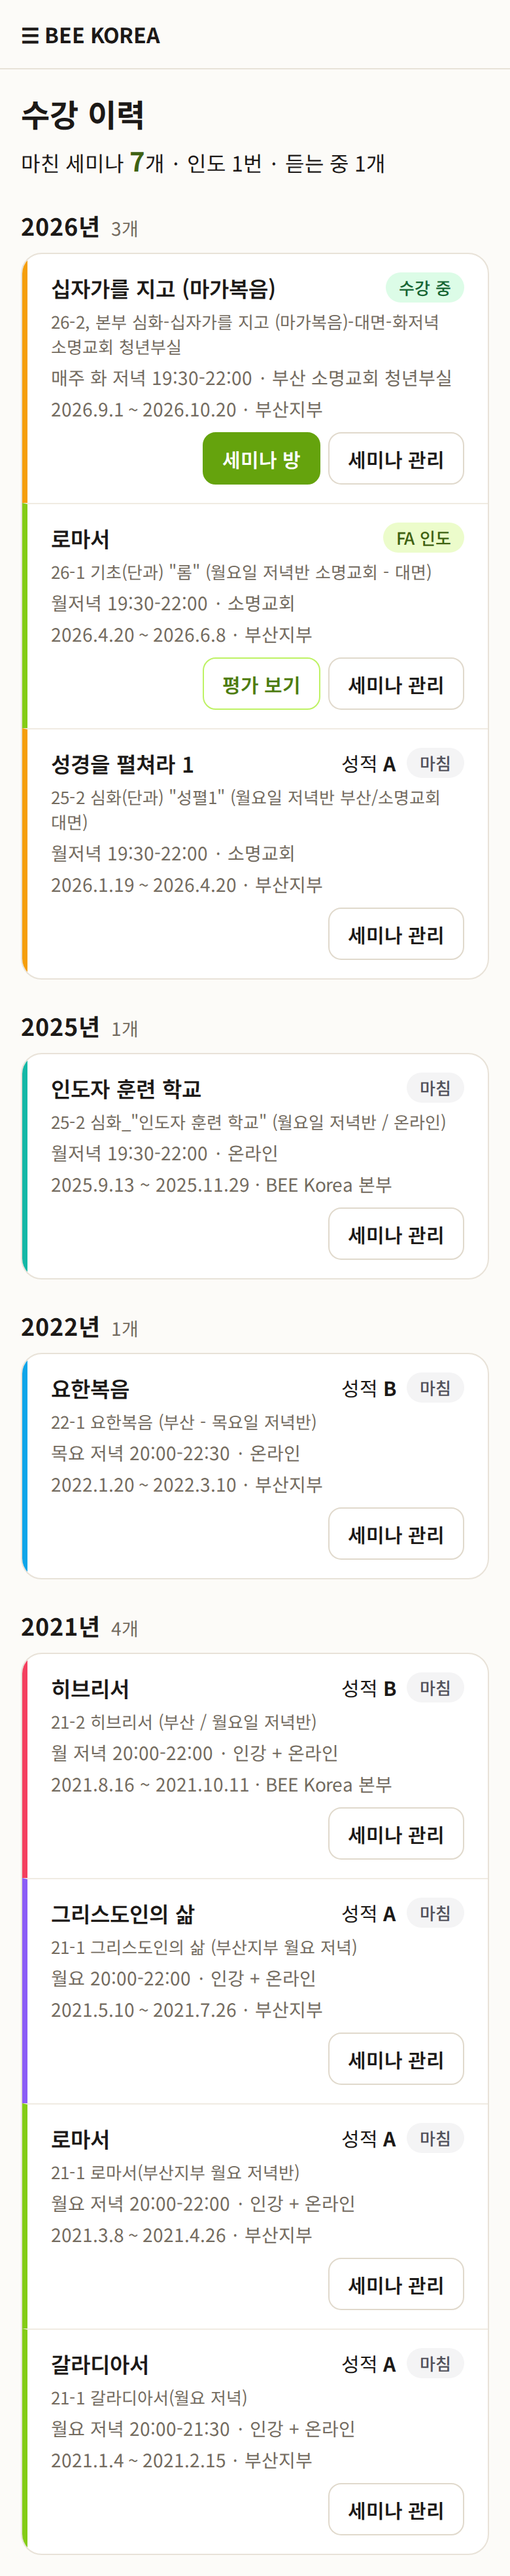
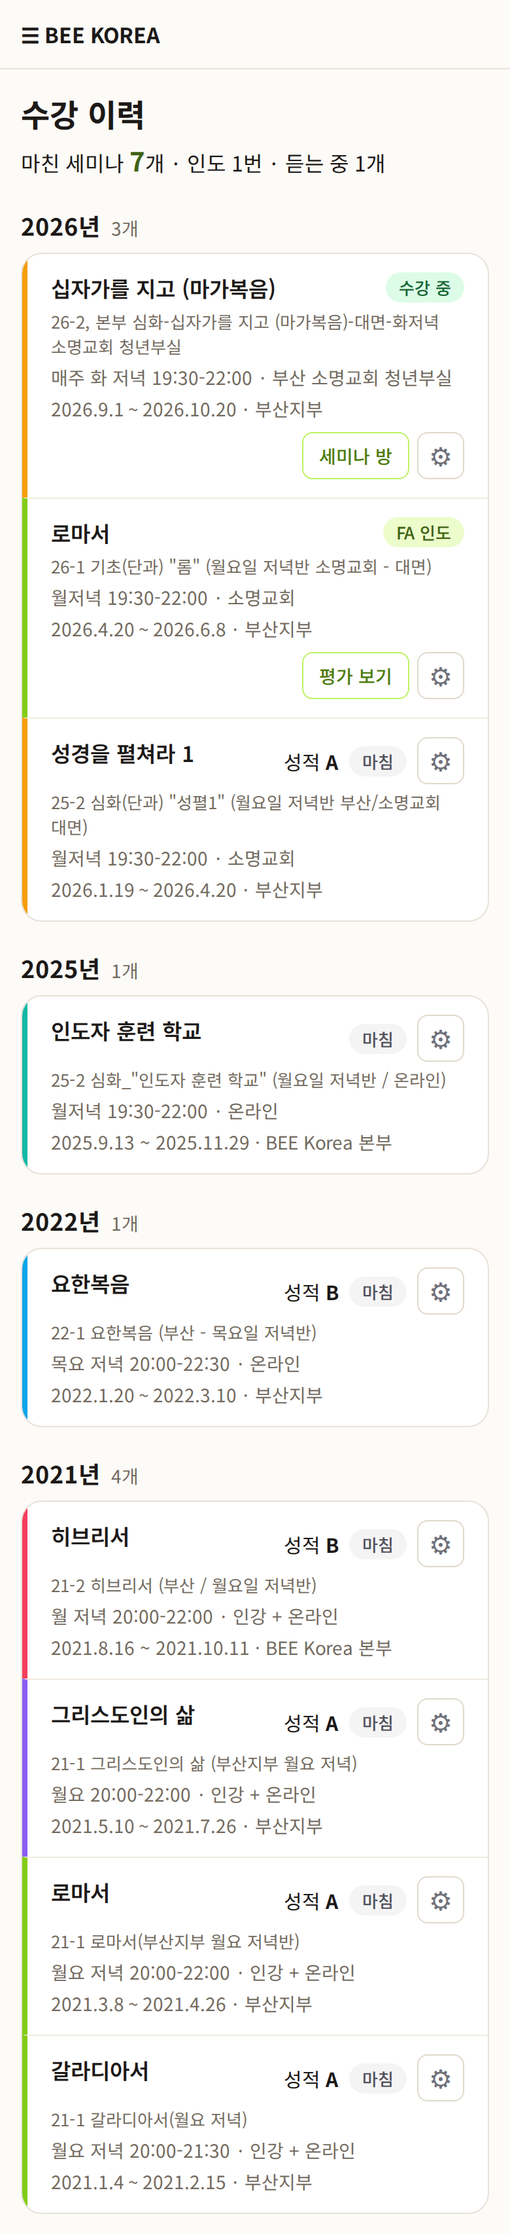
LMS 수강 이력 시안 3차 — 작은 단추 · 톱니바퀴, 내부용

diff --git a/lms/design-seminar-history.html b/lms/design-seminar-history.html
@@ -55,8 +55,8 @@
 </head>
 <body>
 <main>
-  <h1>LMS 수강 이력 — 디자인 시안 2차</h1>
-  <p class="kicker">2026-10-12 · 2차: PC 한 줄 · 관리자용 줄 따로 · 학생이 「내가 지금까지 무엇을 들었나」를 보는 화면 · 반 정보는 실제 값(9개 반을 들은 학생 한 분 — 이름 없음) · 아직 적용 전</p>
+  <h1>LMS 수강 이력 — 디자인 시안 3차</h1>
+  <p class="kicker">2026-10-12 · 3차: 단추 작게 · 세미나 관리 = 톱니바퀴 · 2차: PC 한 줄 · 관리자용 줄 따로 · 학생이 「내가 지금까지 무엇을 들었나」를 보는 화면 · 반 정보는 실제 값(9개 반을 들은 학생 한 분 — 이름 없음) · 아직 적용 전</p>
 
   <section class="card" aria-labelledby="what">
     <h2 id="what" style="margin-top:0">무엇이 바뀌나</h2>
@@ -68,6 +68,7 @@
       <li><b>언제·어디서</b>(요일·시간·장소)를 함께 — 지금은 날짜만</li>
       <li><b>인도한 반은 「FA 인도」</b> 표시 — 지금은 성적 칸이 「-」라 왜 비었는지 모릅니다</li>
       <li><b>그림만 있는 단추 → 글자 단추</b>: 평가 그림 → [평가 보기] · 톱니바퀴(본부만) → [세미나 관리] · 작은 「취소」 → [신청 취소]. 듣는 중인 반은 [세미나 방]</li>
+      <li><b>단추는 작게</b>(36px, 테두리만) — [세미나 방]·[평가 보기]는 줄의 주인공이 아니라 갈 곳 표시. 세미나 관리 목록의 [세미나 방]과 같은 모양(태남 지적)</li>
       <li>같은 「수강 이력」 제목이 두 번(화면 제목 + 카드 제목) 나오던 것 하나로</li>
     </ul>
   </section>
@@ -78,7 +79,7 @@
     <figure><figcaption><span class="tag new">시안</span>9개 반을 들은 학생</figcaption><img src="assets/design/history-pc-after.png" alt="시안 수강 이력 PC" loading="lazy"></figure>
   </div>
   <h2>본부 관리자(Lv1~2)가 볼 때</h2>
-  <p>관리용 반 이름을 <b>한 줄 더</b> 보여 주고(전체 글자, 자르지 않음), 줄마다 <b>[세미나 관리]</b>(관리 상세 화면) 단추를 둡니다. 학생·인도자에게는 둘 다 안 보입니다.</p>
+  <p>관리용 반 이름을 <b>한 줄 더</b> 보여 주고(전체 글자, 자르지 않음), 줄마다 <b>톱니바퀴</b>(세미나 관리 상세 — 다른 화면과 같은 뜻, 마우스를 올리면 「세미나 관리」)를 둡니다. 본부 화면 기준이라 그림 단추를 허용합니다. 학생·인도자에게는 둘 다 안 보입니다.</p>
   <div class="pair">
     <figure><figcaption><span class="tag new">시안</span>PC · 관리자</figcaption><img src="assets/design/history-pc-after-adm.png" alt="시안 관리자 PC" loading="lazy"></figure>
     <figure><figcaption><span class="tag new">시안</span>휴대폰 · 관리자</figcaption><img src="assets/design/history-m-after-adm.png" alt="시안 관리자 휴대폰" loading="lazy" style="max-width:340px"></figure>
@@ -93,7 +94,8 @@
   <section class="card ask" aria-labelledby="ask" style="margin-top:40px">
     <h2 id="ask">정해진 것 (10/12)</h2>
     <ol>
-      <li><b>관리용 반 이름</b> — 학생에게는 빼고, <b>본부 관리자에게만</b> 한 줄로 보여 줍니다 + [세미나 관리] 단추</li>
+      <li><b>관리용 반 이름</b> — 학생에게는 빼고, <b>본부 관리자에게만</b> 한 줄로 보여 줍니다 + 톱니바퀴(세미나 관리)</li>
+      <li><b>단추 크기</b> — [세미나 방]은 작은 테두리 단추, 세미나 관리는 톱니바퀴 — 태남 「너무 크다」</li>
       <li><b>[세미나 방] 단추는 듣는 중인 반에만</b>, 마친 반은 줄을 누르면 들어갑니다 — 태남 「그렇게 해도 좋아」</li>
     </ol>
   </section>
